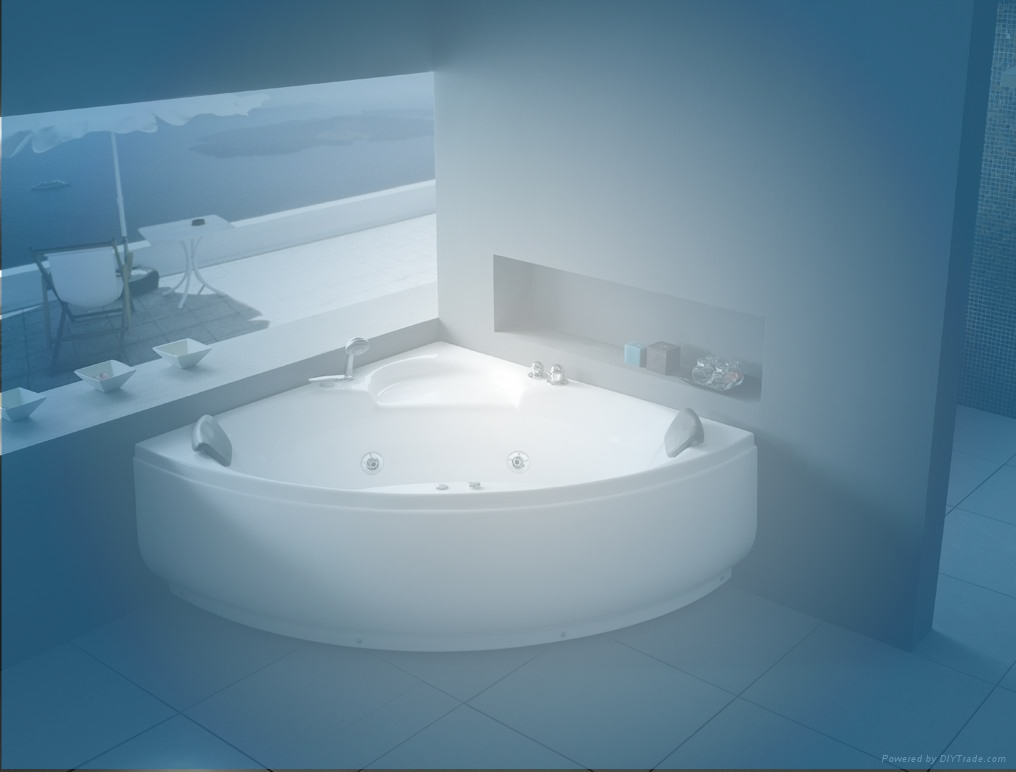
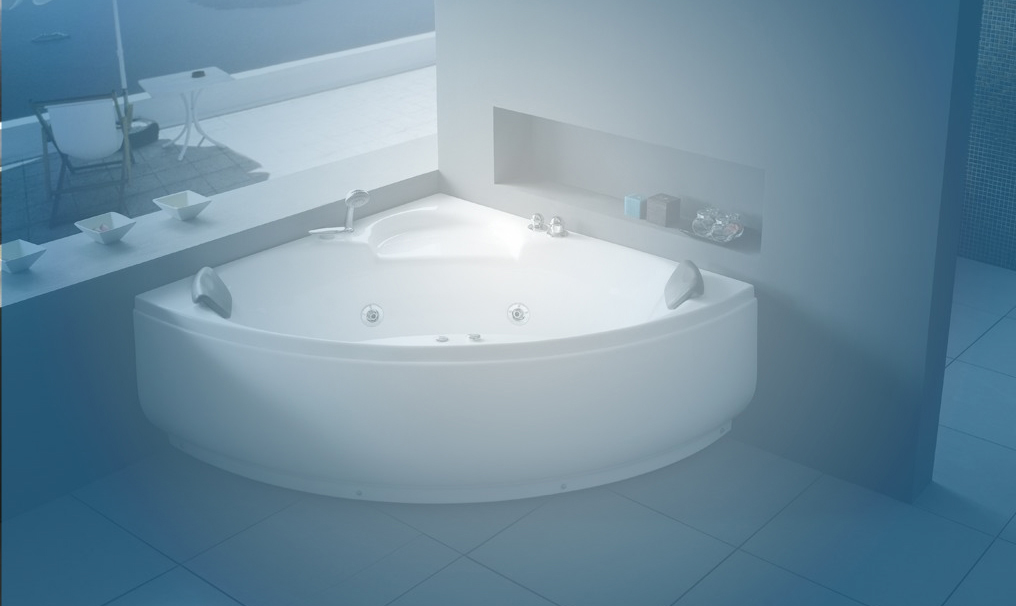
commit v3

diff --git a/index.html b/index.html
@@ -118,7 +118,7 @@
                 <p>Lorem Ipsum is simply<br> dummy text<button class="quote-btn">GET A QUOTE</button>
             </div>      
           </div>
-
+          <div class="overlay"></div>
     </div>
   </div>
 </div>

diff --git a/assets/css/styles.css b/assets/css/styles.css
@@ -706,7 +706,7 @@ footer{
 }
 
 .overlay {
-    background-color: rgba(33, 150, 243, 0.51);
+    background-color: rgba(7, 60, 255, 0.25);
     position: absolute;
     top: 0;
     left: 0;
